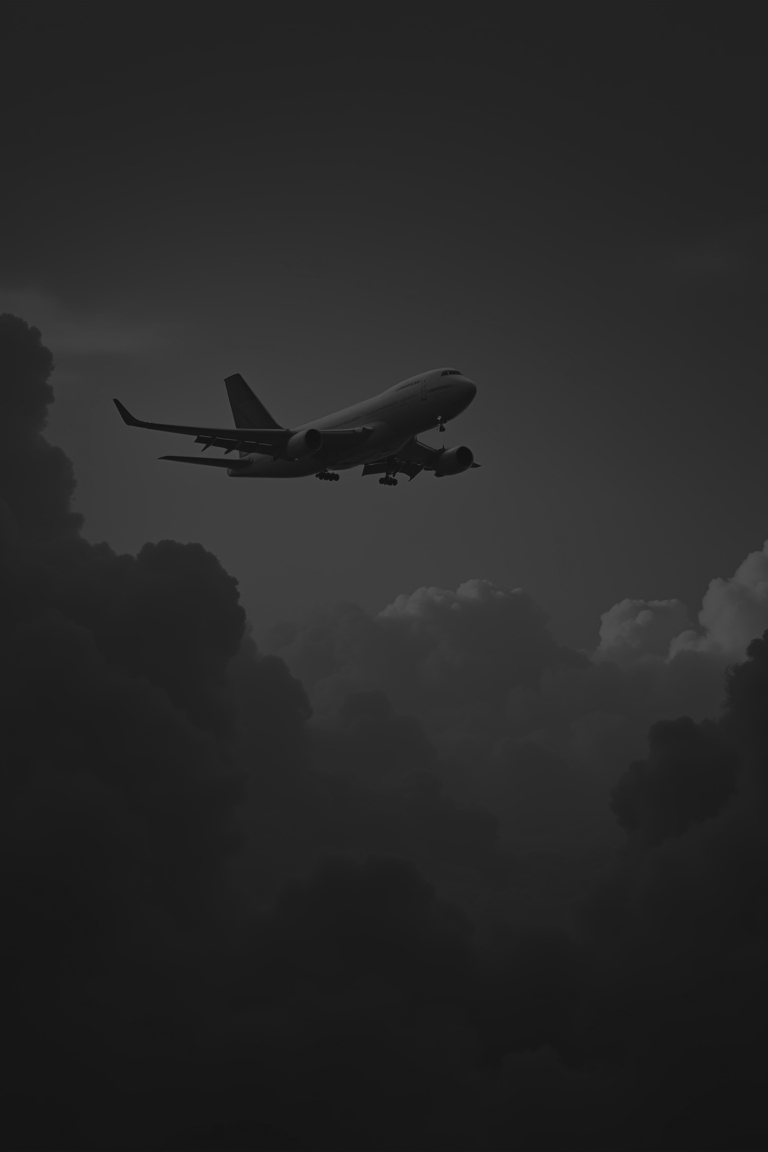
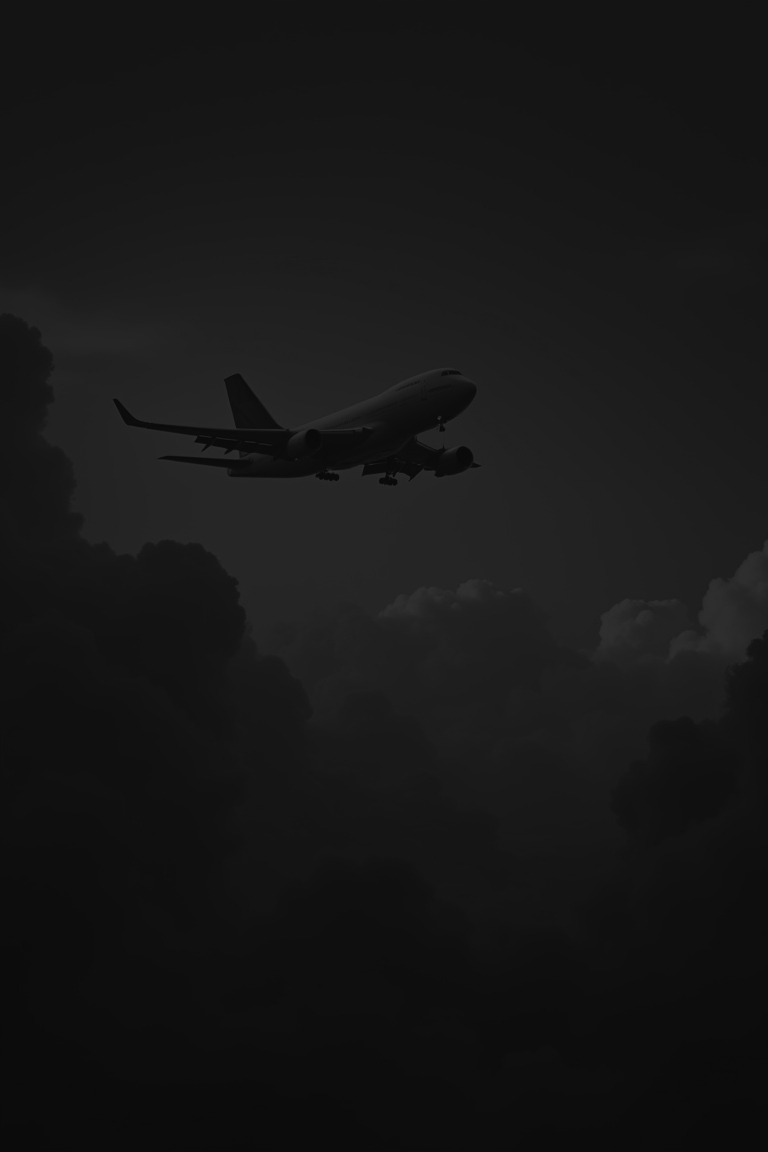
Fixed Main BG issue

Changed region(s): [[0.0312, 0.2812, 0.7188, 0.5625], [0.75, 0.4688, 1.0, 0.5938]]

diff --git a/src/components/Main.tsx b/src/components/Main.tsx
@@ -8,10 +8,13 @@ interface MainInterface {
 const Main = ({ children, img }: MainInterface) => {
   return (
     <main
-      className={
-        "pb-24 sm:pb-24 p-4 sm:p-12 text-stone-400 flex-grow " +
-        (img && `bg-[url('/${img}.jpg')] bg-cover`)
-      }
+      className={"pb-24 sm:pb-24 p-4 sm:p-12 text-stone-400 flex-grow "}
+      style={{
+        backgroundImage: img ? `url('/${img}.jpg')` : undefined,
+        backgroundSize: "cover",
+        backgroundPosition: "center",
+        backgroundRepeat: "no-repeat",
+      }}
     >
       {children}
     </main>
